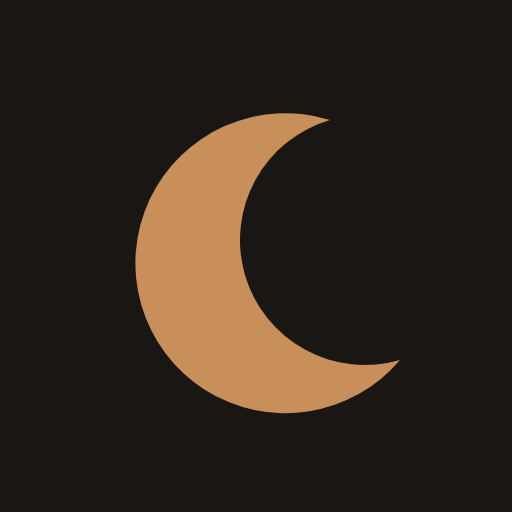
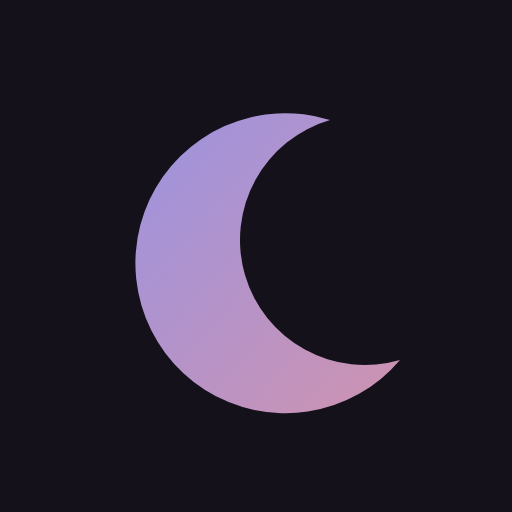
Settle on warmer Nocturne theme with gradients, add overflow menu and settings sheet

Changed region(s): [[0.25, 0.2188, 0.7812, 0.8125]]

diff --git a/public/assets/app.css b/public/assets/app.css
@@ -1,43 +1,22 @@
-/* ---------- design directions (TEMP: two of these go once one is picked) ---------- */
-
-/* A · Dusk: warm charcoal, amber accent, serif numerals, soft cards */
-:root, [data-theme=dusk] {
-  --bg: #1a1614; --surface: #241f1c; --surface2: #302925; --line: #3d342e;
-  --text: #e6dcd0; --muted: #a09285; --accent: #c98f5a; --accent-ink: #1f1711;
-  --good: #8fae8b; --bad: #c9806f;
-  --radius: 18px; --chip-radius: 12px; --card-border: 0px;
-  --font: system-ui, -apple-system, "Segoe UI", sans-serif;
-  --font-num: ui-serif, "New York", Georgia, serif;
-  --label-case: none; --label-space: 0; --label-size: .95rem;
-}
-
-/* B · Nocturne: deep blue-black, periwinkle accent, round and pill-shaped */
-[data-theme=nocturne] {
-  --bg: #11131b; --surface: #191c28; --surface2: #242839; --line: #30354b;
-  --text: #dcdfeb; --muted: #8d93ab; --accent: #8f96d8; --accent-ink: #12142a;
-  --good: #7fb5a6; --bad: #cf8a9a;
+/* Nocturne: warm plum-black, lavender-to-rose gradients, round and pill-shaped */
+:root {
+  --bg: #14111a; --surface: #1d1924; --surface2: #2a2433; --line: #3b3247;
+  --text: #e7e0e9; --muted: #9d93a7; --accent: #a998de; --accent2: #cf93b0; --accent-ink: #1a1326;
+  --accent-grad: linear-gradient(135deg, #9c93e0, #cf93b0);
+  --card-grad: linear-gradient(160deg, #231d2d, #1a1621);
+  --good: #7fb8a4; --bad: #d98b70;
   --radius: 24px; --chip-radius: 999px; --card-border: 0px;
   --font: system-ui, -apple-system, "Segoe UI", sans-serif;
   --font-num: ui-rounded, "SF Pro Rounded", system-ui, sans-serif;
   --label-case: none; --label-space: 0; --label-size: .95rem;
 }
 
-/* C · Graphite: neutral near-black, monospace, hairlines, sage accent */
-[data-theme=graphite] {
-  --bg: #121312; --surface: #121312; --surface2: #1e201e; --line: #343734;
-  --text: #d5d8d2; --muted: #898e86; --accent: #a3b58c; --accent-ink: #141a0f;
-  --good: #7fb0a8; --bad: #c98672;
-  --radius: 4px; --chip-radius: 3px; --card-border: 1px;
-  --font: ui-monospace, "SF Mono", Menlo, Consolas, monospace;
-  --font-num: ui-monospace, "SF Mono", Menlo, Consolas, monospace;
-  --label-case: uppercase; --label-space: .08em; --label-size: .75rem;
-}
-
 /* ---------- base ---------- */
 *, *::before, *::after { box-sizing: border-box; }
 html { color-scheme: dark; -webkit-text-size-adjust: 100%; }
 body {
-  margin: 0; background: var(--bg); color: var(--text);
+  margin: 0; color: var(--text); min-height: 100vh;
+  background: radial-gradient(120% 55% at 50% -10%, #2e2244 0%, transparent 65%) fixed, var(--bg);
   font: 16px/1.4 var(--font);
   -webkit-tap-highlight-color: transparent;
   padding: env(safe-area-inset-top) 0 0;
@@ -57,21 +36,14 @@ h2 {
 }
 
 .card {
-  background: var(--surface); border: var(--card-border) solid var(--line);
+  background: var(--card-grad); border: var(--card-border) solid var(--line);
   border-radius: var(--radius); padding: 16px; margin-bottom: 12px;
 }
 .row { display: flex; align-items: center; justify-content: space-between; gap: 12px; }
 .big { font: 600 1.9rem/1 var(--font-num); font-variant-numeric: tabular-nums; }
 
-/* ---------- theme picker (TEMP) ---------- */
-.themes { display: flex; gap: 6px; padding: 8px 16px; max-width: 520px; margin: 0 auto; }
-.themes button {
-  flex: 1; padding: 6px 4px; font-size: .75rem; color: var(--muted);
-  border: 1px dashed var(--line); border-radius: 8px;
-}
-.themes button.on { color: var(--text); border-style: solid; border-color: var(--accent); }
-
 /* ---------- date bar ---------- */
+.datebar { padding-top: 14px; }
 .datebar { display: flex; align-items: center; justify-content: space-between; min-height: 64px; padding: 6px 0 10px; }
 .icon { width: 48px; height: 48px; font-size: 1.8rem; line-height: 1; color: var(--muted); border-radius: var(--chip-radius); }
 .icon:active { background: var(--surface2); }
@@ -97,7 +69,7 @@ input[type=range] {
 }
 input[type=range]::-webkit-slider-runnable-track {
   height: 8px; border-radius: 4px;
-  background: linear-gradient(to right, var(--accent) var(--p), var(--surface2) var(--p));
+  background: linear-gradient(to right, #9c93e0 0, #cf93b0 var(--p), var(--surface2) var(--p));
 }
 input[type=range]::-moz-range-track { height: 8px; border-radius: 4px; background: var(--surface2); }
 input[type=range]::-moz-range-progress { height: 8px; border-radius: 4px; background: var(--accent); }
@@ -117,8 +89,7 @@ input[type=range]::-moz-range-thumb {
   min-height: 44px; padding: 8px 16px; border-radius: var(--chip-radius);
   background: var(--surface2); border: 1px solid transparent; color: var(--text);
 }
-[data-theme=graphite] .chip { border-color: var(--line); background: transparent; }
-.chip.on { background: var(--accent); border-color: var(--accent); color: var(--accent-ink); font-weight: 600; }
+.chip.on { background: var(--accent-grad); color: var(--accent-ink); font-weight: 600; }
 
 textarea, input[type=password] {
   display: block; width: 100%; margin-top: 10px; padding: 12px;
@@ -129,7 +100,7 @@ textarea::placeholder, input::placeholder { color: var(--muted); }
 /* ---------- buttons ---------- */
 .primary {
   display: block; width: 100%; min-height: 52px; border-radius: var(--chip-radius);
-  background: var(--accent); color: var(--accent-ink); font-weight: 700; font-size: 1.05rem;
+  background: var(--accent-grad); color: var(--accent-ink); font-weight: 700; font-size: 1.05rem;
 }
 .primary:disabled { background: var(--surface2); color: var(--muted); }
 .link { color: var(--muted); text-decoration: underline; text-underline-offset: 3px; font-size: .9rem; padding: 10px 4px; }
@@ -158,7 +129,7 @@ textarea::placeholder, input::placeholder { color: var(--muted); }
 /* ---------- stats ---------- */
 .tiles { display: grid; grid-template-columns: repeat(3, 1fr); gap: 8px; margin-bottom: 12px; }
 .tile {
-  background: var(--surface); border: var(--card-border) solid var(--line);
+  background: var(--card-grad); border: var(--card-border) solid var(--line);
   border-radius: var(--radius); padding: 12px; display: flex; flex-direction: column; gap: 4px; min-width: 0;
 }
 .tile span { font-size: .72rem; color: var(--muted); text-transform: var(--label-case); white-space: nowrap; }
@@ -173,10 +144,10 @@ textarea::placeholder, input::placeholder { color: var(--muted); }
 #chart svg { display: block; }
 .grid { stroke: var(--line); stroke-width: 1; }
 .axis { fill: var(--muted); font-size: 10px; font-family: var(--font); }
-.bar { fill: var(--accent); opacity: .7; }
+.bar { fill: url(#barGrad); opacity: .7; }
 .bar.on { opacity: 1; }
 .band { fill: var(--surface2); }
-.line { fill: none; stroke: var(--accent); stroke-width: 2; stroke-linejoin: round; stroke-linecap: round; }
+.line { fill: none; stroke: url(#lineGrad); stroke-width: 2; stroke-linejoin: round; stroke-linecap: round; }
 .dot { fill: var(--accent); stroke: var(--surface); stroke-width: 2; }
 .hit { fill: transparent; cursor: pointer; }
 
@@ -189,5 +160,19 @@ textarea::placeholder, input::placeholder { color: var(--muted); }
 .imp-bar .neg { background: var(--bad); border-radius: 4px 0 0 4px; }
 .imp-v { text-align: right; font-variant-numeric: tabular-nums; white-space: nowrap; }
 
-.more { display: flex; flex-wrap: wrap; gap: 4px 16px; align-items: center; }
-.more code { flex-basis: 100%; word-break: break-all; font-size: .8rem; background: var(--surface2); padding: 10px; border-radius: var(--chip-radius); user-select: all; }
+/* ---------- overflow menu & settings sheets ---------- */
+.tabs .dots { flex: 0 0 56px; font-size: 1.5rem; line-height: 1; }
+.sheet {
+  position: fixed; inset: auto 0 0 0; width: 100%; max-width: 520px; margin: 0 auto;
+  padding: 20px 16px calc(16px + env(safe-area-inset-bottom));
+  background: var(--card-grad); color: var(--text); border: 0; border-top: 1px solid var(--line);
+  border-radius: var(--radius) var(--radius) 0 0;
+}
+.sheet::backdrop { background: rgba(8, 6, 12, .65); }
+.sheet h1 { margin-bottom: 16px; }
+.item {
+  display: flex; align-items: center; width: 100%; min-height: 52px; padding: 0 16px; margin-top: 8px;
+  background: var(--surface2); border-radius: 16px; color: var(--text); text-decoration: none; font-weight: 600;
+}
+.item:active { background: var(--line); }
+.secret { display: block; word-break: break-all; font-size: .8rem; background: var(--bg); padding: 12px; border-radius: 12px; user-select: all; -webkit-user-select: all; min-height: 3.2em; }

diff --git a/public/assets/app.js b/public/assets/app.js
@@ -14,21 +14,6 @@ async function api(action, body) {
   return json;
 }
 
-// --- TEMP: design direction picker -----------------------------------------
-const themeBar = $('#themes');
-if (themeBar) {
-  const mark = () => $$('button', themeBar).forEach(b => b.classList.toggle('on', b.dataset.t === document.documentElement.dataset.theme));
-  themeBar.addEventListener('click', e => {
-    const t = e.target.dataset.t;
-    if (!t) return;
-    document.documentElement.dataset.theme = t;
-    try { localStorage.theme = t; } catch (e) {}
-    mark();
-    if (!auth && view === 'stats') renderStats();
-  });
-  mark();
-}
-
 // --- auth -------------------------------------------------------------------
 const auth = $('#auth');
 if (auth) {
@@ -229,6 +214,10 @@ function renderChart() {
   const bw = Math.max(2, Math.min(18, col - 2));
 
   let s = `<svg viewBox="0 0 ${W} ${H}" width="${W}" height="${H}" role="img" aria-label="Hours slept and sleep quality for the last ${range} nights">`;
+  s += `<defs>
+    <linearGradient id="barGrad" x1="0" y1="0" x2="0" y2="1"><stop offset="0" stop-color="#cf93b0"/><stop offset="1" stop-color="#9c93e0"/></linearGradient>
+    <linearGradient id="lineGrad" gradientUnits="userSpaceOnUse" x1="${padL}" x2="${W - padR}" y1="0" y2="0"><stop offset="0" stop-color="#9c93e0"/><stop offset="1" stop-color="#cf93b0"/></linearGradient>
+  </defs>`;
   const grid = (y, label) => `<line class="grid" x1="${padL}" x2="${W - padR}" y1="${y}" y2="${y}"/><text class="axis" x="${padL - 6}" y="${y + 3.5}" text-anchor="end">${label}</text>`;
   s += grid(yH(8), '8h') + grid(yH(4), '4h') + grid(base1, '0');
   s += grid(yQ(100), '100') + grid(yQ(50), '50') + grid(base2, '0');
@@ -306,11 +295,22 @@ function renderImpact() {
 }
 
 // --- misc -------------------------------------------------------------------
-$('#showToken').addEventListener('click', async () => {
-  const el = $('#token');
-  if (!el.hidden) { el.hidden = true; return; }
-  try { el.textContent = (await api('token')).token; el.hidden = false; } catch (err) { alert(err.message); }
+const menu = $('#menu'), settings = $('#settings');
+$('#openMenu').addEventListener('click', () => menu.showModal());
+$('#openSettings').addEventListener('click', async () => {
+  menu.close();
+  settings.showModal();
+  try { $('#token').textContent = (await api('token')).token; } catch (err) { $('#token').textContent = err.message; }
 });
+$('#copyToken').addEventListener('click', async e => {
+  try { await navigator.clipboard.writeText($('#token').textContent); e.target.textContent = 'Copied ✓'; }
+  catch (err) { e.target.textContent = 'Select the token and copy it'; }
+  setTimeout(() => { e.target.textContent = 'Copy token'; }, 2000);
+});
+for (const d of [menu, settings]) {
+  // close on backdrop tap, on [data-close], and after picking a link
+  d.addEventListener('click', e => { if (e.target === d || e.target.closest('[data-close], a')) d.close(); });
+}
 $('#logout').addEventListener('click', async () => { await api('logout', {}); location.reload(); });
 addEventListener('beforeunload', e => { if (dirty) e.preventDefault(); });
 

diff --git a/public/index.php b/public/index.php
@@ -8,12 +8,12 @@ $v = fn(string $f) => $f . '?v=' . filemtime(__DIR__ . '/' . $f);
 header('Cache-Control: no-store');
 ?>
 <!doctype html>
-<html lang="en" data-theme="dusk">
+<html lang="en">
 <head>
 <meta charset="utf-8">
 <meta name="viewport" content="width=device-width, initial-scale=1, viewport-fit=cover">
 <meta name="robots" content="noindex">
-<meta name="theme-color" content="#1a1614">
+<meta name="theme-color" content="#14111a">
 <meta name="apple-mobile-web-app-capable" content="yes">
 <meta name="apple-mobile-web-app-status-bar-style" content="black-translucent">
 <title>Sleep Tight</title>
@@ -21,16 +21,8 @@ header('Cache-Control: no-store');
 <link rel="icon" href="assets/icon.svg" type="image/svg+xml">
 <link rel="apple-touch-icon" href="assets/icon-180.png">
 <link rel="stylesheet" href="<?= $v('assets/app.css') ?>">
-<script>try { document.documentElement.dataset.theme = localStorage.theme || 'dusk' } catch (e) {}</script>
 </head>
 <body>
-
-<!-- TEMP: design direction picker, removed once a direction is chosen -->
-<div class="themes" id="themes">
-  <button data-t="dusk">A · Dusk</button>
-  <button data-t="nocturne">B · Nocturne</button>
-  <button data-t="graphite">C · Graphite</button>
-</div>
 
 <?php if (!$authed): ?>
 <main class="auth">
@@ -126,13 +118,6 @@ header('Cache-Control: no-store');
     <p class="muted small">Average quality on nights with a tag vs. nights without it, in points.</p>
     <div id="impact"></div>
   </section>
-
-  <section class="card more">
-    <a class="link" href="api.php?a=export">Export CSV</a>
-    <button class="link" id="showToken">Sync token</button>
-    <button class="link" id="logout">Log out</button>
-    <code id="token" hidden></code>
-  </section>
 </main>
 
 <div class="bottom">
@@ -140,8 +125,24 @@ header('Cache-Control: no-store');
   <nav class="tabs">
     <button data-view="log" class="on">Log</button>
     <button data-view="stats">Stats</button>
+    <button id="openMenu" class="dots" aria-label="More" aria-haspopup="dialog">⋯</button>
   </nav>
 </div>
+
+<dialog id="menu" class="sheet" aria-label="More">
+  <a class="item" href="api.php?a=export">Export CSV</a>
+  <button class="item" id="openSettings">Settings</button>
+  <button class="item" id="logout">Log out</button>
+</dialog>
+
+<dialog id="settings" class="sheet" aria-labelledby="settingsTitle">
+  <h1 id="settingsTitle">Settings</h1>
+  <h2>Sync token</h2>
+  <p class="muted small">Lets <code>bin/sync</code> and <code>bin/migrate --remote</code> reach this site. Keep it private.</p>
+  <code id="token" class="secret"></code>
+  <button class="item" id="copyToken">Copy token</button>
+  <button class="item" data-close>Close</button>
+</dialog>
 <?php endif ?>
 
 <script>window.TAGS = <?= json_encode(TAGS) ?>;</script>
